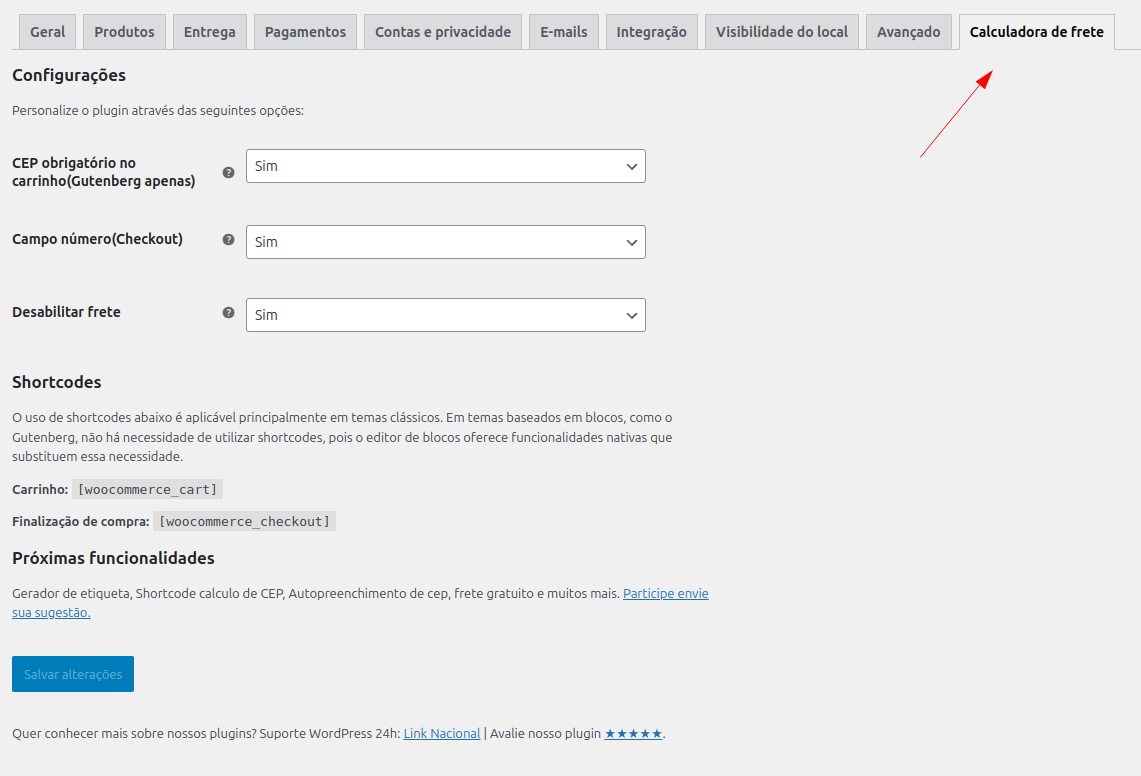
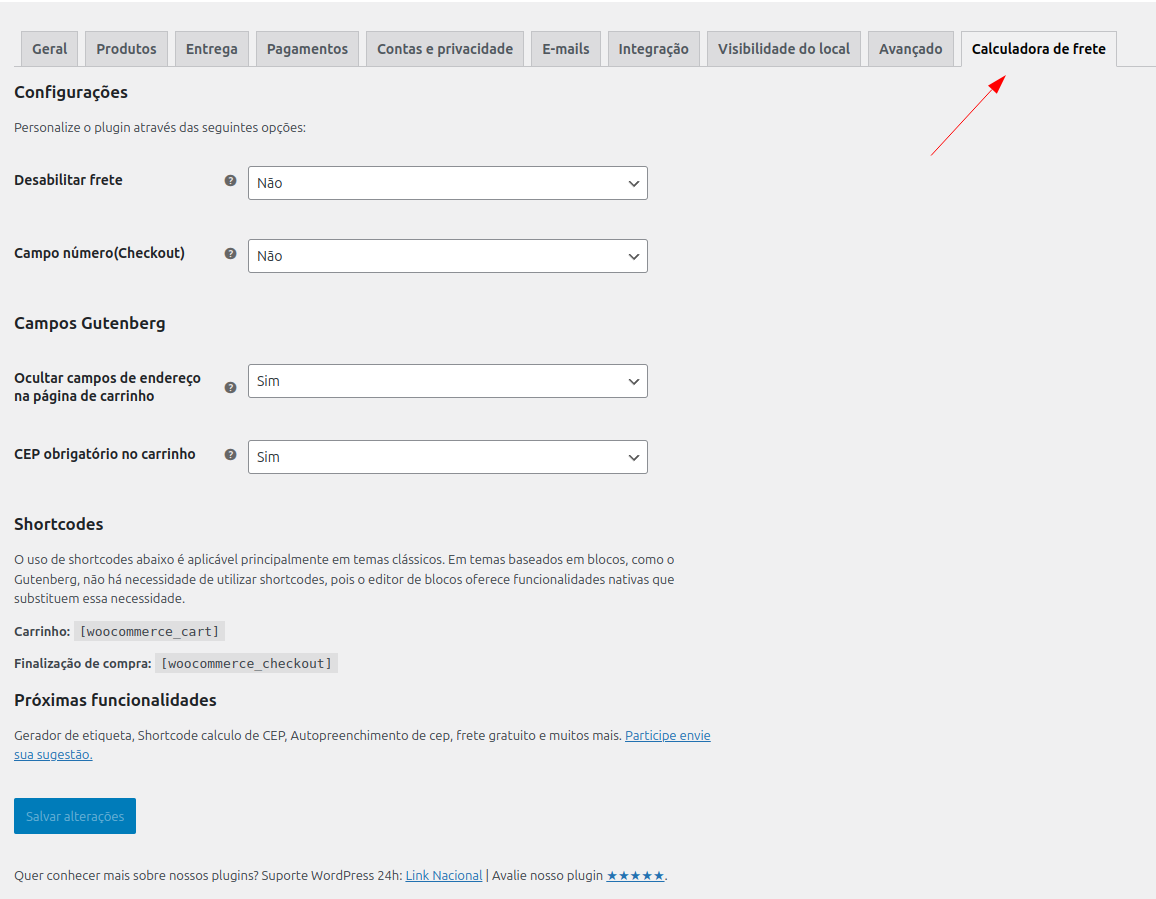
refactor: screenshots

diff --git a/README.md b/README.md
@@ -53,10 +53,10 @@ Calculadora de frete melhorada para lojas brasileiras:
 <img src="Includes/assets/images/newShortShipping.png" alt="Frete novo no shortcode" width="200" />
 
 ### Antes(Gutenberg)
-<img src="Includes/assets/images/oldGutenbergShipping.png" alt="Frete antigo no gutenberg" width="200" />
+<img src="Includes/assets/images/defaultGutenbergCart.png" alt="Frete padrão no gutenberg" width="200" />
 
 ### Depois(Gutenberg)
-<img src="Includes/assets/images/newGutenbergShipping.png" alt="Frete novo no gutenberg" width="200" />
+<img src="Includes/assets/images/postCodeFieldGutenberg.png" alt="Frete novo no gutenberg" width="200" />
 
 ### Novo campo número
 <img src="Includes/assets/images/shortcodeCheckout.png" alt="Campo número no checkout do shortcode" width="600" />
